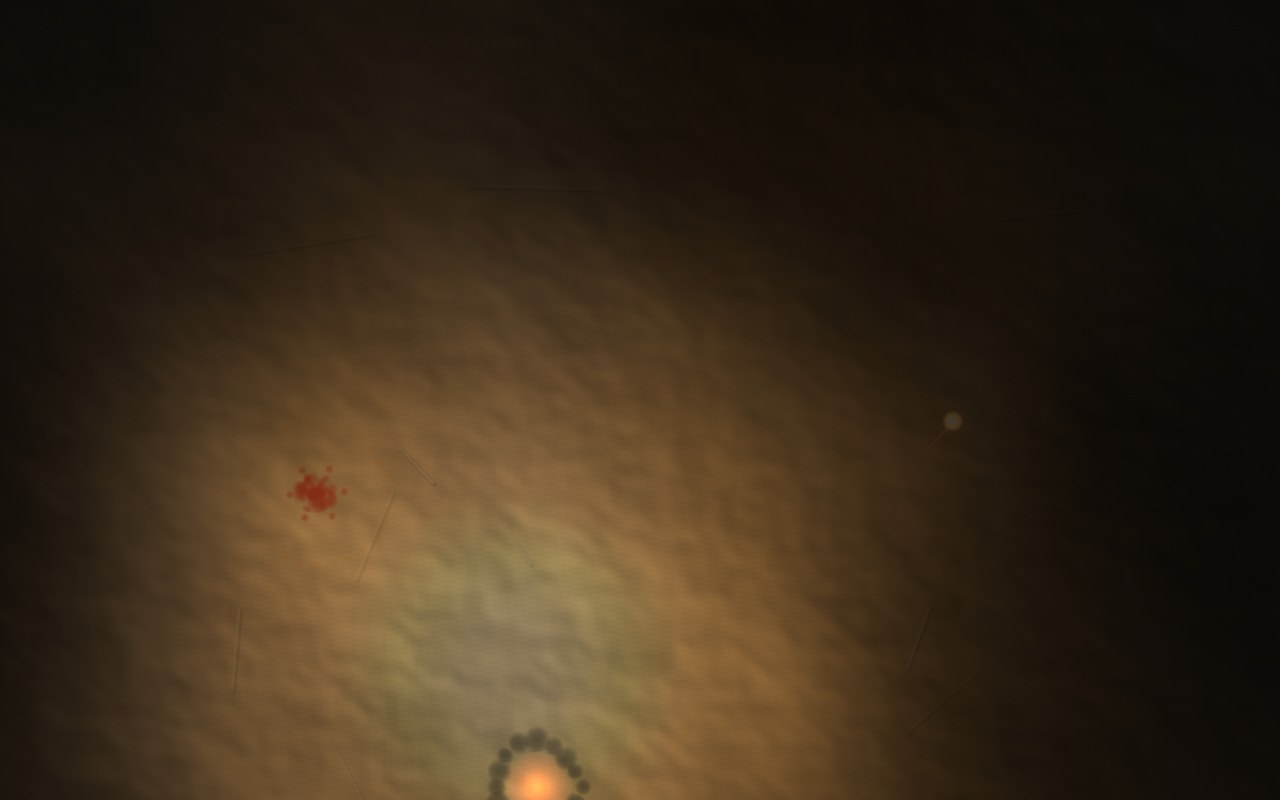
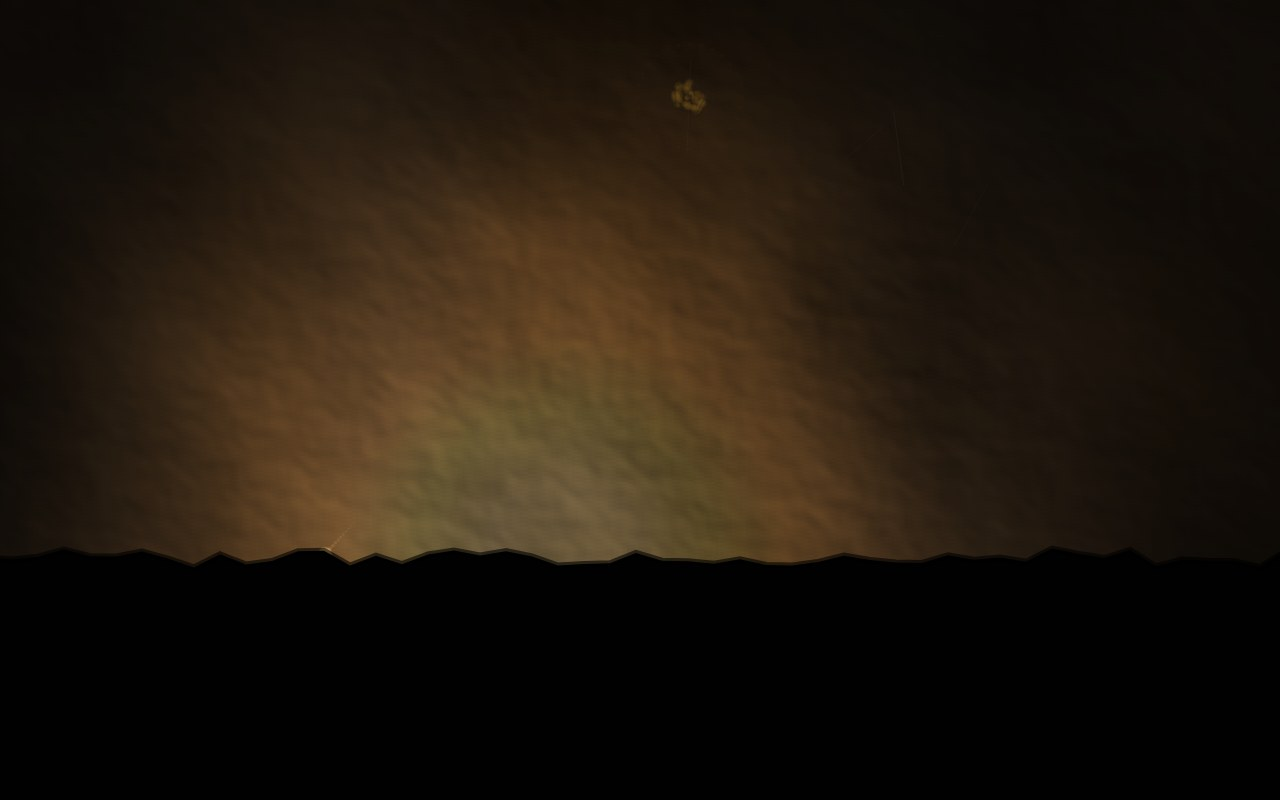
Separate what the ring says from what the body knows
The sheet was saying one thing twice and another thing not at all. Observation
was carried on the capture ring, as dabs pressed into it by the sweep, while the
body was drawn whole the moment it became the target — so a player was handed
what a body *is* before an orbit had earned any of it, and the one mark that must
hold still while a release is timed was the one that kept changing.

The roles are now apart, and the split is the sheet's argument. The ring is
where an observation is possible: gameplay geometry, unchanged while the
observation is made, receding only once a body is closed and has nothing further
to offer. The body is what has been learned, and it alone grows with the sweep.
The one exception is the completion cue, which a ring is allowed exactly once: at
the crossing the dots draw together into a single struck line, a little dust
lifts off it, and inside two thirds of a second it is geometry again. Stamped
once per body, verified over twenty-two seconds of play — never restamped, never
before completion, never missing after it.

The build is the era's own order of work rather than the atlas's, because a hand
on a wall does not proceed as a colourist does. A crude mass of pigment goes on
at the capture itself, unearned, since that is what taking the orbit is: colour
before contour, and a body let go at once keeps it. The edge is walked round it
next, off true, and firms as the orbit holds. The wall's tooth comes up through
[…]

diff --git a/docs/eras/prototypes/rock-read.html b/docs/eras/prototypes/rock-read.html
@@ -418,6 +418,8 @@ function update(now){
     p.x=n.x+Math.cos(p.angle)*p.rad;p.y=n.y+Math.sin(p.angle)*p.rad;
     p.vx=tangentVX(p.angle,p.speed,p.dir);p.vy=tangentVY(p.angle,p.speed,p.dir);
     n.documented=clamp(p.orbitSweep/SWEEP_FULL,0,1);      // live while held — src/reveal.js's own rule
+    // The crossing into a full observation is stamped once, and the ring reads its own age off it.
+    if(n.documented>=1&&!n.sealAt)n.sealAt=performance.now();
     if(n.y>darkY)kill('dark');                            // judged on the body, not the orbit's own wobble
   }else{
     const ox=p.x,oy=p.y;
@@ -460,46 +462,94 @@ function jaggedEdge(seed,width,step){const rnd=mulberry32((seed>>>0)||3),pts=[];
   for(let x=-40;x<=width+40;x+=step)pts.push(rnd()*22-6);return pts;}
 const DARK_EDGE=jaggedEdge(9001,W+80,26);
 
+/* The two roles are kept apart, and keeping them apart is the point.
+
+   The RING is where an observation can be made. It is gameplay geometry: it says a capture will take
+   here, and how wide the region is, and it does not change while the observation is being made,
+   because a thing said twice is a thing said badly. The BODY is what has been learned, and it alone
+   grows with the sweep. The one exception is the completion cue — a ring is allowed a single brief
+   change of state on the crossing into a full observation, and then it is geometry again.
+
+   The build is the era's own order of work rather than the atlas's. A crude mass of pigment goes on
+   first, because that is what a hand does: colour before contour. The edge is walked round it next,
+   off true. The wall's tooth comes up through the pigment as it is worked. Dabs accumulate — the same
+   dabs in the same places, more of them, since `wash` is seeded and adding to `n` only ever adds. And
+   the thing that says *which* body this is arrives last, exactly as the atlas's survey arcs do: the
+   Moon gets its face only at the end of the orbit, not at the start of it. */
+const REV={edge:[.10,.46],tooth:[.26,.70],marks:[.34,.88],detail:[.70,1]};
+const revSpan=(t,r)=>clamp((t-r[0])/(r[1]-r[0]),0,1);
+/* One closed path round a body, walked by a hand that was not being careful: the radius breathes on
+   a slow harmonic with noise over it, and the path runs through the midpoints so it reads as a
+   wavering line rather than a polygon. Seeded off the body, so it is the same edge every frame. */
+function handEdge(g,x,y,r,seed){
+  const rnd=mulberry32((seed>>>0)||5),ph=rnd()*TAU,steps=26,pts=[];
+  for(let i=0;i<steps;i++){const a=i/steps*TAU,k=1+Math.sin(a*2+ph)*.10+Math.sin(a*5-ph)*.06+(rnd()-.5)*.15;
+    pts.push([x+Math.cos(a)*r*k,y+Math.sin(a)*r*k*.95]);}
+  const l=pts[steps-1],f=pts[0];g.beginPath();g.moveTo((l[0]+f[0])/2,(l[1]+f[1])/2);
+  for(let i=0;i<steps;i++){const a=pts[i],b=pts[(i+1)%steps];g.quadraticCurveTo(a[0],a[1],(a[0]+b[0])/2,(a[1]+b[1])/2);}
+  g.closePath();
+}
+/* The ring: structurally stable, and the same ring whether an observation is a third or two thirds
+   made. Its only variable is how much it is worth reading — a body already closed has nothing left
+   to offer and recedes; the one the traveller is aiming at stands a little clearer than the rest. */
+function drawRing(b,x,y,state){
+  const N=28,seal=b.sealAt?clamp(1-(performance.now()-b.sealAt)/640,0,1):0,glow=seal*seal;
+  for(let i=0;i<N;i++){
+    const a=i/N*TAU;
+    dab(ctx,x+Math.cos(a)*b.cap,y+Math.sin(a)*b.cap,(4.2+glow*2.6)*Math.max(.55,state),T.redOchre,(.5+glow*.4)*state,b.seed+i);
+  }
+  // The one breath in which the ring is allowed to speak: the dots draw together into a single struck
+  // line, and a little dust lifts off it, and then it settles back to being where a capture takes.
+  if(glow>.012){
+    ctx.save();ctx.strokeStyle=hexa(T.kaolin,.42*glow);ctx.lineWidth=1.3+2.4*glow;
+    ctx.beginPath();ctx.arc(x,y,b.cap,0,TAU);ctx.stroke();ctx.restore();
+    for(let i=0;i<10;i++){const a=(i/10)*TAU+b.seed,lift=b.cap+6+(1-seal)*16;
+      dab(ctx,x+Math.cos(a)*lift,y+Math.sin(a)*lift,2.6*glow,T.kaolin,.4*glow,b.seed+i+500);}
+  }
+}
+/* The body: nothing of it is owed to the player before an orbit has been held round it. */
+function drawObserved(b,x,y,d){
+  const edge=revSpan(d,REV.edge),tooth=revSpan(d,REV.tooth);
+  const marks=revSpan(d,REV.marks),detail=revSpan(d,REV.detail);
+  const moon=b.kind==='moon',bright=b.kind==='bright';
+  const tone=moon?T.kaolin:bright?T.redOchre:T.ochre,core=b.r*(moon?.94:bright?.72:.6);
+  wash(ctx,x,y,core*1.06,tone,moon?.17:.58,moon?18:12,b.seed+91);
+  if(marks>0)wash(ctx,x,y,core,tone,(moon?.15:.5)*Math.min(1,.35+marks),Math.round((moon?58:bright?40:22)*marks),b.seed);
+  if(tooth>0){
+    // The wall coming up through the pigment: what a hand loses to the rock it is working on.
+    ctx.save();handEdge(ctx,x,y,core,b.seed^0x51ed);ctx.clip();
+    const rnd=mulberry32((b.seed^0x2ba9)>>>0||7);
+    for(let i=0;i<(moon?26:40);i++){const a=rnd()*TAU,rr=Math.sqrt(rnd())*core;
+      dab(ctx,x+Math.cos(a)*rr,y+Math.sin(a)*rr,.7+rnd()*1.4,rnd()<.4?T.charcoal:T.manganese,(.05+rnd()*.12)*tooth,b.seed+i+30);}
+    ctx.restore();
+  }
+  if(edge>0){
+    ctx.save();handEdge(ctx,x,y,core*1.03,b.seed^0x51ed);
+    ctx.strokeStyle=hexa(moon?T.manganese:T.charcoal,.3*edge);ctx.lineWidth=.9+.9*edge;ctx.stroke();ctx.restore();
+  }
+  // What the body is, rather than that it is: the last thing the orbit pays for, and the first thing
+  // a player would have been handed for free if any of this were drawn before the sweep earned it.
+  if(detail>0){
+    if(moon)for(let i=0;i<7;i++){const rnd=mulberry32(b.seed+i*13);
+      dab(ctx,x+(rnd()*2-1)*core*.5,y+(rnd()*2-1)*core*.5,(5+rnd()*5)*(.45+.55*detail),T.manganese,.8*detail,b.seed+i);}
+    else if(bright)for(let i=0;i<7;i++){const a=i/7*TAU+b.seed,rr=core*1.24;
+      dab(ctx,x+Math.cos(a)*rr,y+Math.sin(a)*rr,3.2+1.6*detail,T.manganese,.7*detail,b.seed+i+7);}
+    else dab(ctx,x,y,3.2,T.manganese,.55*detail,b.seed+3);
+  }
+}
 function drawBody(b,live){
   const x=sx(b.x),y=sy(b.y);
-  if(y<-60||y>H+60)return;
-  const isTarget=(b===target()&&!b.visited)||live;
-  if(!isTarget&&!b.visited){
-    // not yet within torch-reach: a body this era hasn't earned a hand for yet is only a recurring
-    // glow, per 01-rock.md — present, but not claiming to be more than a light that keeps coming back.
+  if(y<-90||y>H+90)return;
+  if(!live&&!b.visited){
+    // Before an orbit has taken it a body is a phenomenon and nothing else: a light that keeps coming
+    // back, per 01-rock.md, carrying a position and — through the width of its ring — a magnitude.
     const pulse=.28+.14*Math.sin(performance.now()/600+b.seed);
-    dab(ctx,x,y,b.r*.5,T.ochreDeep,pulse*.5,b.seed);
+    dab(ctx,x,y,b.r*.52,T.ochre,pulse*1.05,b.seed);
+    drawRing(b,x,y,b===target()?1:.6);
     return;
   }
-  // the capture region: a dot-ring at the real capture radius, never staged, never withheld —
-  // 01-rock.md's own line about this sheet, kept literally: what is drawn is what the game will do.
-  const N=28,d=live?clamp(player.orbitSweep/SWEEP_FULL,0,1):(b.documented||0);
-  const entry=live?player.angle-player.dir*player.orbitSweep:(b.entryAngle||0);
-  const dir=live?player.dir:(b.entryDir||1);
-  const sweptAmount=live?player.orbitSweep:d*SWEEP_FULL;
-  for(let i=0;i<N;i++){
-    const a=i/N*TAU,rx=x+Math.cos(a)*b.cap,ry=y+Math.sin(a)*b.cap;
-    let swept=(a-entry)*dir;swept=((swept%TAU)+TAU)%TAU;
-    // Growth is honest while it is still being earned — only the arc actually swept shows struck.
-    // 01-rock.md's own words for the finished state are "a finished ring... sealed": once two-thirds
-    // of a turn is paid, the ring closes whole rather than sitting a third short of itself forever.
-    const struck=d>=1||(sweptAmount>0&&swept<=Math.min(sweptAmount,TAU));
-    // the sealing dab sits at a fixed point on the ring — the two-thirds-turn mark itself — and,
-    // once reached, stays put and dark whether the traveller is still circling past it or long gone.
-    const sealFlourish=d>=1&&Math.abs(swept-SWEEP_FULL)<TAU/N*1.5;
-    if(struck)dab(ctx,rx,ry,sealFlourish?7.5:5,sealFlourish?T.manganese:T.redOchre,sealFlourish?.95:.72,b.seed+i);
-    else dab(ctx,rx,ry,3,T.ochreDeep,.22,b.seed+i+400);
-  }
-  // the body itself: size and dab-count carry brightness, never a number. A faint star is one small
-  // dab; a bright one is a bigger dab with its own struck spark-cluster around it (Chauvet's dot
-  // clusters, read here as the era's nearest thing to a magnitude key); the Moon alone gets a face.
-  if(b.kind==='moon'){
-    wash(ctx,x,y,b.r,T.kaolin,.2,70,b.seed);
-    for(let i=0;i<7;i++){const rnd=mulberry32(b.seed+i*13);dab(ctx,x+(rnd()*2-1)*b.r*.55,y+(rnd()*2-1)*b.r*.55,4+rnd()*4,T.manganese,.62,b.seed+i);}
-  }else{
-    wash(ctx,x,y,b.r*(b.kind==='bright'?.62:.5),b.kind==='bright'?T.redOchre:T.ochre,.8,b.kind==='bright'?46:26,b.seed);
-    if(b.kind==='bright')for(let i=0;i<6;i++){const a=i/6*TAU+b.seed;dab(ctx,x+Math.cos(a)*b.r*.85,y+Math.sin(a)*b.r*.85,3.4,T.redOchre,.55,b.seed+i+7);}
-  }
+  drawRing(b,x,y,live?1:.24);
+  drawObserved(b,x,y,live?clamp(player.orbitSweep/SWEEP_FULL,0,1):(b.documented||0));
 }
 
 function drawHazard(h){

diff --git a/docs/eras/PROTOTYPES.md b/docs/eras/PROTOTYPES.md
@@ -79,8 +79,8 @@ flat tiers, each a different mark — an ochre dab, a red-ochre cluster ringed w
 kaolin disc with a manganese face; the traveller is the crayon's lit tip, the one hot-cored mark on the
 wall; the trajectory is a dust-line that warms from charcoal to red-ochre as it comes to thread the next
 capture region; danger is the Shaft, a true black void with a pecked rim, and the Flare, deep red-orange
-under soot; and the observation is dabs pressed into the capture ring as the sweep accumulates, sealing
-into a closed ring at `SWEEP_FULL` and freezing there when the orbit is let go.
+under soot; and the observation is the body itself, which is drawn on only as the orbit
+pays for it.
 
 **What the spike got wrong first, and what that taught.** Its first finding was that the window in
 which a release connects is about one frame wide, that this reproduces
@@ -97,6 +97,29 @@ makes an ordinary release landable. With the ratio and the test corrected the wi
 frames, about a seventh of a second, measured the same way. **The lesson is worth more than the
 first finding was: a spike that gets a ratio wrong will report a design problem that does not
 exist**, and this one nearly wrote "the Rock cannot be flown" into the record.
+
+**The ring says where, the body says what.** The first pass carried the observation on the capture
+ring — dabs pressed into it as the sweep accumulated — and left the body drawn whole the moment it
+became the target. That is two mistakes in one: it hands the player what a body *is* before an orbit
+has earned it, and it makes the capture region double as a progress meter, so the same fact is said
+twice and the one mark that must stay stable while a release is being timed is the one that keeps
+changing. The roles are now separated and the separation is the sheet's argument:
+
+- **the ring is where an observation is possible** — gameplay geometry, structurally unchanged while
+  the observation is made, receding only once a body is closed and offering nothing more;
+- **the body is what has been learned**, and it alone grows with the sweep;
+- **one brief change of state on the ring is the completion cue** — at the crossing into a full
+  observation the dots draw together into a single struck line and a little dust lifts off it, and
+  within two thirds of a second it has settled back to being geometry.
+
+The build is the era's own order of work rather than the atlas's, because a hand on a wall does not
+proceed as a colourist does. A crude mass of pigment goes on at the capture itself, unearned, since
+that is what taking the orbit *is*: colour before contour. The edge is then walked round it, off
+true, and firms as the orbit holds. The wall's tooth comes up through the pigment as it is worked.
+Dabs accumulate — the same dabs in the same places, more of them, because the wash is seeded and
+adding to its count only ever adds. And the thing that says *which* body this is arrives last,
+exactly where the atlas puts its survey arcs: the Moon's face is struck at the end of the orbit, not
+at the start of it, so a body observed halfway is a mass with an edge and no identity at all.
 
 **What a hand actually aims at.** The first pass gave the player only a warming dust-line, which
 asks a hand to *react* to an instant. The shipped game does something else entirely: it draws the
